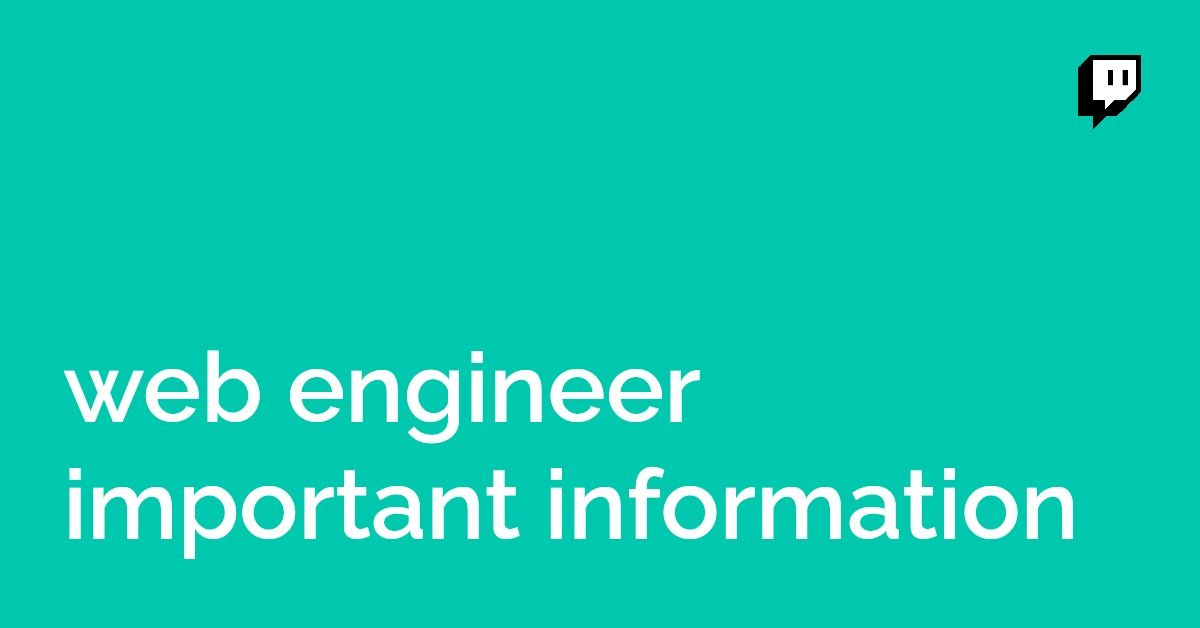
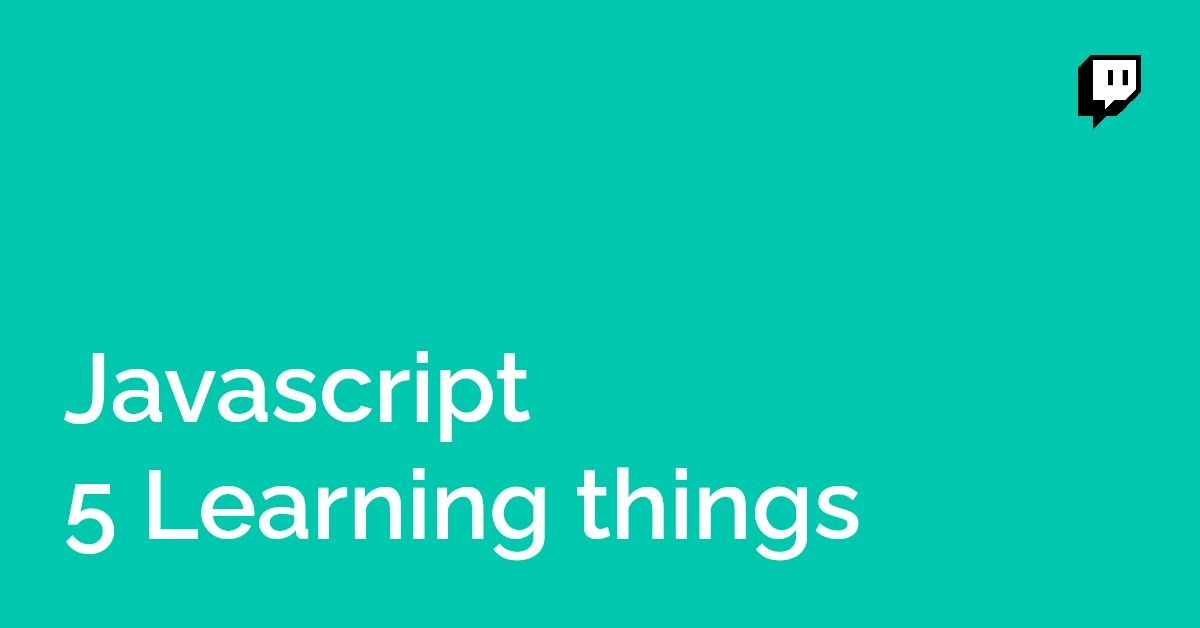
second commit

Changed region(s): [[0.0308, 0.5446, 0.8942, 0.9076]]

diff --git a/assets/posted/wordpress_post.html b/assets/posted/wordpress_post.html
@@ -1,32 +1,100 @@
-<p>いただくことができますか？</p>
-<p>Webエンジニアに必須の学習内容は、以下のとおりです。</p>
-<ol>
-<li>
-<p>HTMLとCSSの基礎
-Webページの構成を理解し、CSSを使ってデザインを調整する方法を学びましょう。さらに、レスポンシブデザインにも注意を払う必要があります。</p>
-</li>
-<li>
-<p>JavaScriptの基礎
-Webページの動きを実現するために、JavaScriptを学ぶことが必要です。JavaScriptの基礎を抑え、jQueryやVue.jsなどのフレームワークに進むための準備をしましょう。</p>
-</li>
-<li>
-<p>バックエンド技術
-Webアプリケーションのサーバーサイドを構築するために、PHP、Python、Ruby、Node.jsなどのプログラミング言語や、フレームワークを学ぶ必要があります。</p>
-</li>
-<li>
-<p>データベースの基礎
-バックエンド部分で扱うデータを管理するために、データベースの基礎が必要です。MySQL、PostgreSQL、MongoDBなどのデータベースシステムを学びましょう。</p>
-</li>
-<li>
-<p>APIの基礎
-RESTful APIの基礎を学び、APIを作成・呼び出しする方法を理解する必要があります。</p>
-</li>
-<li>
-<p>セキュリティに関する知識
-WebサイトやWebアプリケーションは様々な攻撃にさらされる可能性があります。セキュリティに関する知識を身につけ、攻撃への対策を考えましょう。</p>
-</li>
-</ol>
-<p>以上が、Webエンジニアにとって必須となる学習内容です。それぞれ、実際にコードを書いて学び、経験を積んでいくことが重要です。</p><p>最後にpythonでめちゃわかりやすいおすすめの本を紹介します！！</p>
+<h1>Javascriptエンジニアになるために学習すること５つ</h1>
+<h2>1. Javascriptの基本文法を学ぶ</h2>
+<p>Javascriptの基本文法を学ぶことが、Javascriptエンジニアになるためには最も重要なステップです。変数の宣言、条件分岐、ループ処理、関数、オブジェクトなどを理解し、コーディングの基礎を習得しましょう。</p>
+<pre><code class="language-javascript">// 変数の宣言
+let greeting = &quot;Hello World!&quot;;
+
+// 条件分岐
+if (greeting === &quot;Hello World!&quot;) {
+  console.log(&quot;Greeting is correct!&quot;);
+} else {
+  console.log(&quot;Greeting is incorrect!&quot;);
+}
+
+// ループ処理
+for (let i = 0; i &lt; 10; i++) {
+  console.log(i);
+}
+
+// 関数
+function sum(a, b) {
+  return a + b;
+}
+
+// オブジェクト
+let person = {
+  name: &quot;John&quot;,
+  age: 30
+};
+</code></pre>
+<h2>2. Javascriptのフレームワークを学ぶ</h2>
+<p>Javascriptのフレームワークを学ぶことで、より複雑なアプリケーションの開発が可能になります。ReactやAngularなどのフレームワークを学び、コンポーネントやライブラリの使用方法を理解しましょう。</p>
+<pre><code class="language-javascript">// Reactのコンポーネント
+import React from &quot;react&quot;;
+
+function App() {
+  return (
+    &lt;div&gt;
+      &lt;h1&gt;Hello World!&lt;/h1&gt;
+    &lt;/div&gt;
+  );
+}
+</code></pre>
+<h2>3. Javascriptのモジュールシステムを理解する</h2>
+<p>Javascriptのモジュールシステムを理解することで、コードを簡単に再利用することができます。ES6モジュールやCommonJSなどのモジュールシステムを学び、効率的なコードの管理方法を習得しましょう。</p>
+<pre><code class="language-javascript">// ES6モジュール
+import { greet } from &quot;./greet.js&quot;;
+
+console.log(greet(&quot;John&quot;)); // Hello, John!
+
+// CommonJS
+const greet = require(&quot;./greet&quot;);
+
+console.log(greet(&quot;John&quot;)); // Hello, John!
+</code></pre>
+<h2>4. Javascriptの非同期処理を理解する</h2>
+<p>Javascriptの非同期処理を理解することで、ユーザーとのインターフェースがスムーズになります。Promiseやasync/awaitなどの非同期処理を学び、スムーズなアプリケーションの開発を行いましょう。</p>
+<pre><code class="language-javascript">// Promise
+let promise = new Promise((resolve, reject) =&gt; {
+  setTimeout(() =&gt; resolve(&quot;done!&quot;), 1000);
+});
+
+promise.then((result) =&gt; console.log(result)); // done!
+
+// async/await
+async function greeting() {
+  let promise = new Promise((resolve, reject) =&gt; {
+    setTimeout(() =&gt; resolve(&quot;Hello!&quot;), 1000);
+  });
+
+  let result = await promise; // wait until the promise resolves
+  console.log(result); // Hello!
+}
+
+greeting();
+</code></pre>
+<h2>5. Javascriptの開発環境を構築する</h2>
+<p>Javascriptの開発環境を構築することで、より効率的なコーディングが可能になります。Node.jsやWebpack、Babelなどのツールを学び、効率的な開発環境を構築しましょう。</p>
+<pre><code class="language-javascript">// Node.jsでのファイルの読み込み
+const fs = require(&quot;fs&quot;);
+
+fs.readFile(&quot;./file.txt&quot;, &quot;utf8&quot;, (err, data) =&gt; {
+  if (err) throw err;
+  console.log(data);
+});
+
+// webpack.config.jsでの設定
+module.exports = {
+  entry: &quot;./src/index.js&quot;,
+  output: {
+    path: path.resolve(__dirname, &quot;dist&quot;),
+    filename: &quot;bundle.js&quot;
+  }
+};
+
+// Babelでのコードのトランスパイル
+const sum = (a, b) =&gt; a + b;
+</code></pre><p>最後にpythonでめちゃわかりやすいおすすめの本を紹介します！！</p>
 <script type="text/javascript">
 (function(b,c,f,g,a,d,e){b.MoshimoAffiliateObject=a;
 b[a]=b[a]||function(){arguments.currentScript=c.currentScript

diff --git a/templates/index.html b/templates/index.html
@@ -1,21 +1,21 @@
 <!DOCTYPE html>
 <html>
 <head>
-    <title>Text input example</title>
+    <title>ブログ自動作成アプリ</title>
 </head>
 <body>
-<h1>Enter Text:</h1>
+<h1>ブログ自動作成アプリ</h1>
 <form method="POST" action="{{ url_for('post') }}">
-    <label for="api-request">API request:</label><br>
+    <label for="api-request">投稿内容</label><br>
     <textarea id="api_request" name="api_request" rows="4" cols="50"></textarea><br><br>
-    <label for="post-title">Post title:</label><br>
+    <label for="post-title">ブログタイトル</label><br>
     <textarea id="post_title" name="post_title" rows="4" cols="50"></textarea><br><br>
-    <label for="icatch-title">icatch title:</label><br>
+    <label for="icatch-title">アイキャッチタイトル</label><br>
     <textarea id="icatch_title" name="icatch_title" rows="4" cols="50"></textarea><br><br>
 
-    <input type="submit" value="Submit">
+    <input type="submit" value="ブログ作成開始">
 </form>
-
+<br>
 <button onclick="copyPreviousPost()">前回の内容をコピーする</button>
 
 <h1>前回の投稿</h1>
@@ -28,7 +28,6 @@
 
 <script>
     function copyPreviousPost() {
-        console.log("copyPreviousPost");
         document.getElementById("api_request").value = document.getElementById("previous-api-request").value;
         document.getElementById("post_title").value = document.getElementById("previous-post-title").value;
         document.getElementById("icatch_title").value = document.getElementById("previous-icatch-title").value;

diff --git a/templates/result.html b/templates/result.html
@@ -4,19 +4,20 @@
     <title>Results</title>
 </head>
 <body>
+    <h1>作成結果</h1>
     <a href="/">入力画面へ戻る</a>
-    <h1>Results:</h1>
-    <p>Status Code: {{ status_code }}</p>
-    <p>Posted URL</p>
-    <a href="{{ posted_url }} ">{{ posted_url }}</a>
-    <p>Content Message</p>
+    <h2>ステータスコード</h2>
+    <p>{{ status_code }}</p>
+    <h2>作成したブログ</h2>
+    <a href="{{ posted_url }} " target="_blank" rel="noopener noreferrer">{{ posted_url }}</a>
+    <h2>投稿結果詳細</h2>
     <div id="my-data"></div>
     <script>
       var myData = JSON.parse('{{ res_json|tojson|safe }}');
       var myDataHtml = JSON.stringify(myData, null, 4);
       document.getElementById("my-data").innerHTML = '<pre>' + myDataHtml + '</pre>';
     </script>
-    <p>Error Msg</p>
+    <h2>エラーメッセージ</h2>
     <p>{{ error_msg }}</p>
 
 

diff --git a/wordpress/post.py b/wordpress/post.py
@@ -28,8 +28,7 @@ def post(create_content_func, post_api_url, API_USERNAME, API_PASSWORD, media_id
         res = requests.post(
             post_api_url,
             json=post_data,
-            auth=(API_USERNAME, API_PASSWORD),
-            timeout=1
+            auth=(API_USERNAME, API_PASSWORD)
         )
         print(f"Result: {res.status_code}")
         if res.status_code == 201:

diff --git a/app.py b/app.py
@@ -67,4 +67,4 @@ def post():
 
 if __name__ == '__main__':
     setenv()
-    app.run(debug=True)
+    app.run(debug=True, host='0.0.0.0', port=5001)
